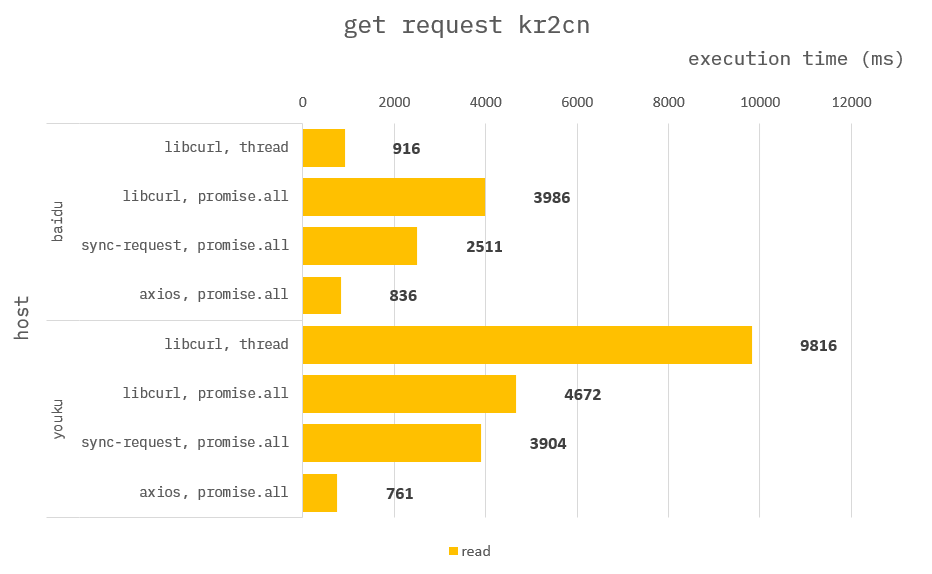
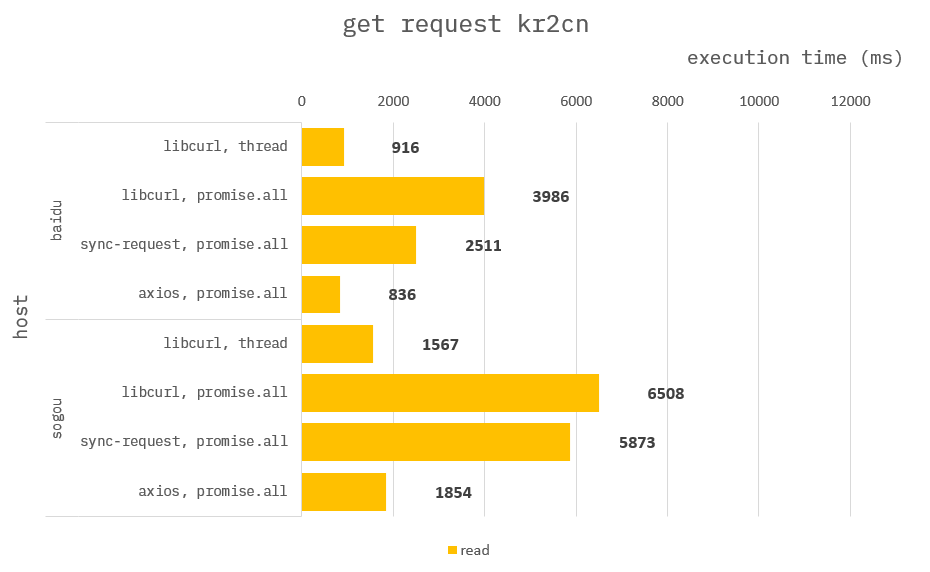
update: network get parallel

diff --git a/7-2.network get parallel/src/index.ts b/7-2.network get parallel/src/index.ts
@@ -82,7 +82,7 @@ function createParam(url: string): AddonParamType {
 //
 // start benchmark.
 async function bootstrap() {
-    const urls = ["https://www.baidu.com/", "https://www.youku.com/"];
+    const urls = ["https://www.baidu.com/", "https://www.sogou.com/"];
     const repeat = 3;
     for (let i = 0; i < urls.length; i++) {
         const param = createParam(urls[i]);

diff --git a/7-2.network get parallel/readme.md b/7-2.network get parallel/readme.md
@@ -59,9 +59,3 @@ node :
 > Measure the average of 3 times. (Number of concurrent connections: 5)
 
 ![](./resource/benchmark_kr2cn.png)
-
----
-
-`libcurl` using `std::thread` may have the lowest latency.
-
-But `axios` performs better on average.
